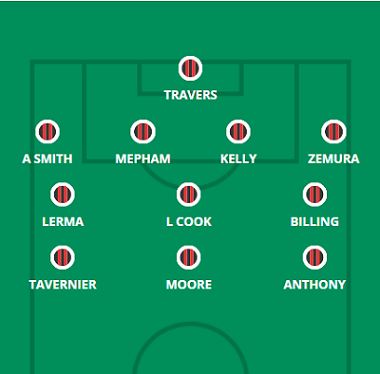
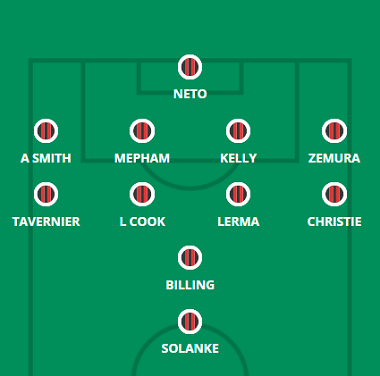
atualização bourne e newcastle

diff --git a/newcastle.html b/newcastle.html
@@ -66,7 +66,7 @@
             <hgroup>
                 <h1> Provável Escalação</h1>
                 <h2 class="direita"> por FabioVascão </h2>
-                <h3 class="direita"> Atualizado em 30/Agosto/2022 </h3>
+                <h3 class="direita"> Atualizado em 02/Setembro/2022 </h3>
             </hgroup>
     
             <h2 class="time"> <img src="_fotos/_logos/logonewcastle.png" />Newcastle</h2>
@@ -75,9 +75,9 @@
                     <img src="_fotos/_dinamicas/newcastle.png" />
                 </figure>
             </aside>
-                <div class="escalacao"><h2 class="titulo">Ultimas Notícias</h2> <h4><p>Callum Wilson (lesão na coxa), Emil Krafth (lesão no joelho) e Jonjo Shelvey (lesão na coxa) ainda estão de fora e muito provavelmente se juntarão a eles à margem de Bruno Guimarães e Allan Saint-Maximin, que sofreram lesões no tendão na última semana, nenhum dos dois foi completamente descartado por Eddie Howe, mas a dupla parece quase certa de ficar de fora da 5° Rodada. Kieran Trippier (lesão múscular) "deve estar bem", de acordo com seu empresário, mas com Newcastle no meio de um jogo de domingo, quarta e sábado, Howe pode optar por preservar o lateral-direito e, de fato, um ou dois outros corpos para o jogo em casa mais vencível no papel contra o Palace no sábado. Joe Willock foi outro que parecia cansado no fim de semana, então o jovem Elliott Anderson poderia dar uma olhada em Merseyside se seu empresário mantiver a configuração usual de 4-3-3. Muitas vezes não vimos Howe usar um 3-5-2/3-4-3 desde sua chegada ao Newcastle (ele até enfrentou o Man City na 3° Rodada), mas com os principais corpos curtos no topo e gostos de Jamaal Lascelles, Matt Targett, Javier Manquillo e Jacob Murphy, todas as opções descansadas que poderiam se encaixar em um sistema de ala, uma chance em forma não pode ser descartada. A nova contratação, Alexander Isak, pode estar envolvida, mas o registro parece estar próximo do limite, e Chris Wood pode ser o preferido para esta partida de qualquer maneira, dado o tempo limitado de treinamento do sueco com seus novos companheiros de equipe.</p></h4><br>
-                    <h4><strong>Jogadores fora da próxima partida:</strong> Clark, Gayle, Hendrick, Shelvey, Krafth e Wilson</h4><br><br>
-                    <h4><strong>Jogadores dúvidas:</strong> Bruno Guimarães e Saint Maximin</h4>
+                <div class="escalacao"><h2 class="titulo">Ultimas Notícias</h2> <h4><p>Callum Wilson (lesão na coxa), Emil Krafth (lesão no joelho) e Jonjo Shelvey (lesão na coxa) continuam de fora e possivelmente se juntando a eles à margem estão Bruno Guimarães (lesão na coxa) e Allan Saint-Maximin (lesão na coxa); Eddie Howe disse que a dupla estava "perto" da recuperação antes do fim de semana, mas as dúvidas permanecem sobre o envolvimento deles. Howe, no entanto, disse que "esperava" que Alexander Isak ganhasse ritmo de jogo, enquanto a falta de uma atualização sobre Jamaal Lascelles sugere que qualquer problema médico que ele possa ter tido no final do jogo com o Liverpool não era sério. Nick Pope também está "bem" depois de uma tontura na noite de quarta-feira. O chefe do Newcastle destacou o "grande desafio" de ter que ir novamente depois de uma exibição de costas para a parede em Anfield, então pode haver um punhado de mudanças para refrescar o XI inicial com menos de 72 horas separando as rodadas 5 e 6. Fabian Schar e Sven Botman certamente parecem estar sendo preservados para este encontro depois de terem ficado no banco no meio da semana, então Lascelles e Dan Burn podem abrir caminho - embora este último possa suplantar Matt Targett na lateral-esquerda. Não há muito estreante de bar disponível Elliott Anderson no centro do parque, mas Jacob Murphy é uma possibilidade à frente de Ryan Fraser, enquanto Chris Wood estará de prontidão para substituir Isak se o sueco não se recuperar completamente de sua pancada no meio da semana.</p></h4><br>
+                    <h4><strong>Jogadores fora da próxima partida:</strong> Gayle, Shelvey, Krafth e Wilson</h4><br><br>
+                    <h4><strong>Jogadores dúvidas:</strong> Bruno Guimarães, Saint Maximin, Lascelles e Isak</h4>
                 </div> 
         </header>
         </article>

diff --git a/bourne.html b/bourne.html
@@ -66,7 +66,7 @@
             <hgroup>
                 <h1> Provável Escalação</h1>
                 <h2 class="direita"> por FabioVascão </h2>
-                <h3 class="direita"> Atualizado em 30/Agosto/2022 </h3>
+                <h3 class="direita"> Atualizado em 02/Setembro/2022 </h3>
             </hgroup>
     
             <h2 class="time"> <img src="_fotos/_logos/logobourne.png" />Bournemouth</h2>
@@ -75,9 +75,9 @@
                     <img src="_fotos/_dinamicas/bourne.png" />
                 </figure>
             </aside>
-                <div class="escalacao"><h2 class="titulo">Ultimas Notícias</h2> <h4><p>Acredita-se que Joe Rothwell (lesão na coxa), Ryan Fredericks (lesão na panturrilha), Junior Stanislas (lesão na virilha) e David Brooks (falta de ritmo) permaneçam de fora, mas a demissão de Scott Parker significa que não ouviremos as últimas notícias do Bournemouth antes do visita do Wolves, com a condição física de Lloyd Kelly e Ben Pearson - que perdeu a derrota do Liverpool ou sofreu lesões durante a mesma - desconhecida. Gary O'Neil assume o comando interino dos Cherries e, embora possa trazer suas próprias ideias para a 5° Rodada (ele não tem experiência em gerenciamento, não podemos classificá-lo como uma formação favorita), a rápida reviravolta entre os jogos significa que provavelmente não veremos a roda reinventada. Vimos um sistema de 4-3-3 e ala usado por Parker até agora em 2022/23, com Jefferson Lerma alternando entre as funções no meio-campo central e na zaga central, mas nenhuma das formas conseguiu conter o fluxo de concessões de gols nas últimas semanas. Dominic Solanke parece pronto para retornar ao onze inicial pelo menos depois de retornar de lesão como substituto no fim de semana, então ele será emparelhado ao lado de Kieffer Moore ou substituirá seu colega atacante na quarta-feira. Os meias-atacantes Jaidon Anthony e Ryan Christie podem enfrentar o golpe se O'Neil decidir com dois na frente em vez de largura.</p></h4><br>
-                    <h4><strong>Jogadores fora da próxima partida:</strong> Brooks, Rothwell e Stanislas</h4><br><br>
-                    <h4><strong>Jogadores dúvidas:</strong> Frederics, Kelly, Lowe e Pearson</h4>
+                <div class="escalacao"><h2 class="titulo">Ultimas Notícias</h2> <h4><p>Joe Rothwell (lesão na coxa) e Ben Pearson (lesão no joelho) permanecem de fora, enquanto Junior Stanislas (lesão na virilha) também deve estar afastado, apesar da falta de uma atualização do chefe interino Gary O'Neil em seu pré-jogo. Enquanto isso, David Brooks (falta de ritmo) teve seu primeiro gosto de futebol depois de um ano em um jogo da academia no meio da semana, então provavelmente ainda está a algum tempo de um retorno ao time principal. O'Neil levou o Cherries a um empate sem gols contra o Wolves na quarta-feira, então provavelmente manterá a fé com a maior parte do onze inicial que se recuperou bem da goleada de 9 a 0 em Anfield. A falta de ameaça de gol no meio da semana pode fazer com que Kieffer Moore seja contratado às custas de Philip Billing para dar um pouco mais de poder de fogo no ataque, enquanto Jaidon Anthony espera um recall depois que Ryan Christie fez uma exibição bastante normal no flanco esquerdo na 5° Rodada. Mudanças parecem improváveis em outras posições de campo, enquanto Neto parece agora ter a vantagem sobre Mark Travers entre os postes depois de não sofrer gols em sua estreia na Premier League.</p></h4><br>
+                    <h4><strong>Jogadores fora da próxima partida:</strong> Rothwell e Stanislas</h4><br><br>
+                    <h4><strong>Jogadores dúvidas:</strong> Brooks e Pearson</h4>
                 </div> 
         </header>
         </article>
